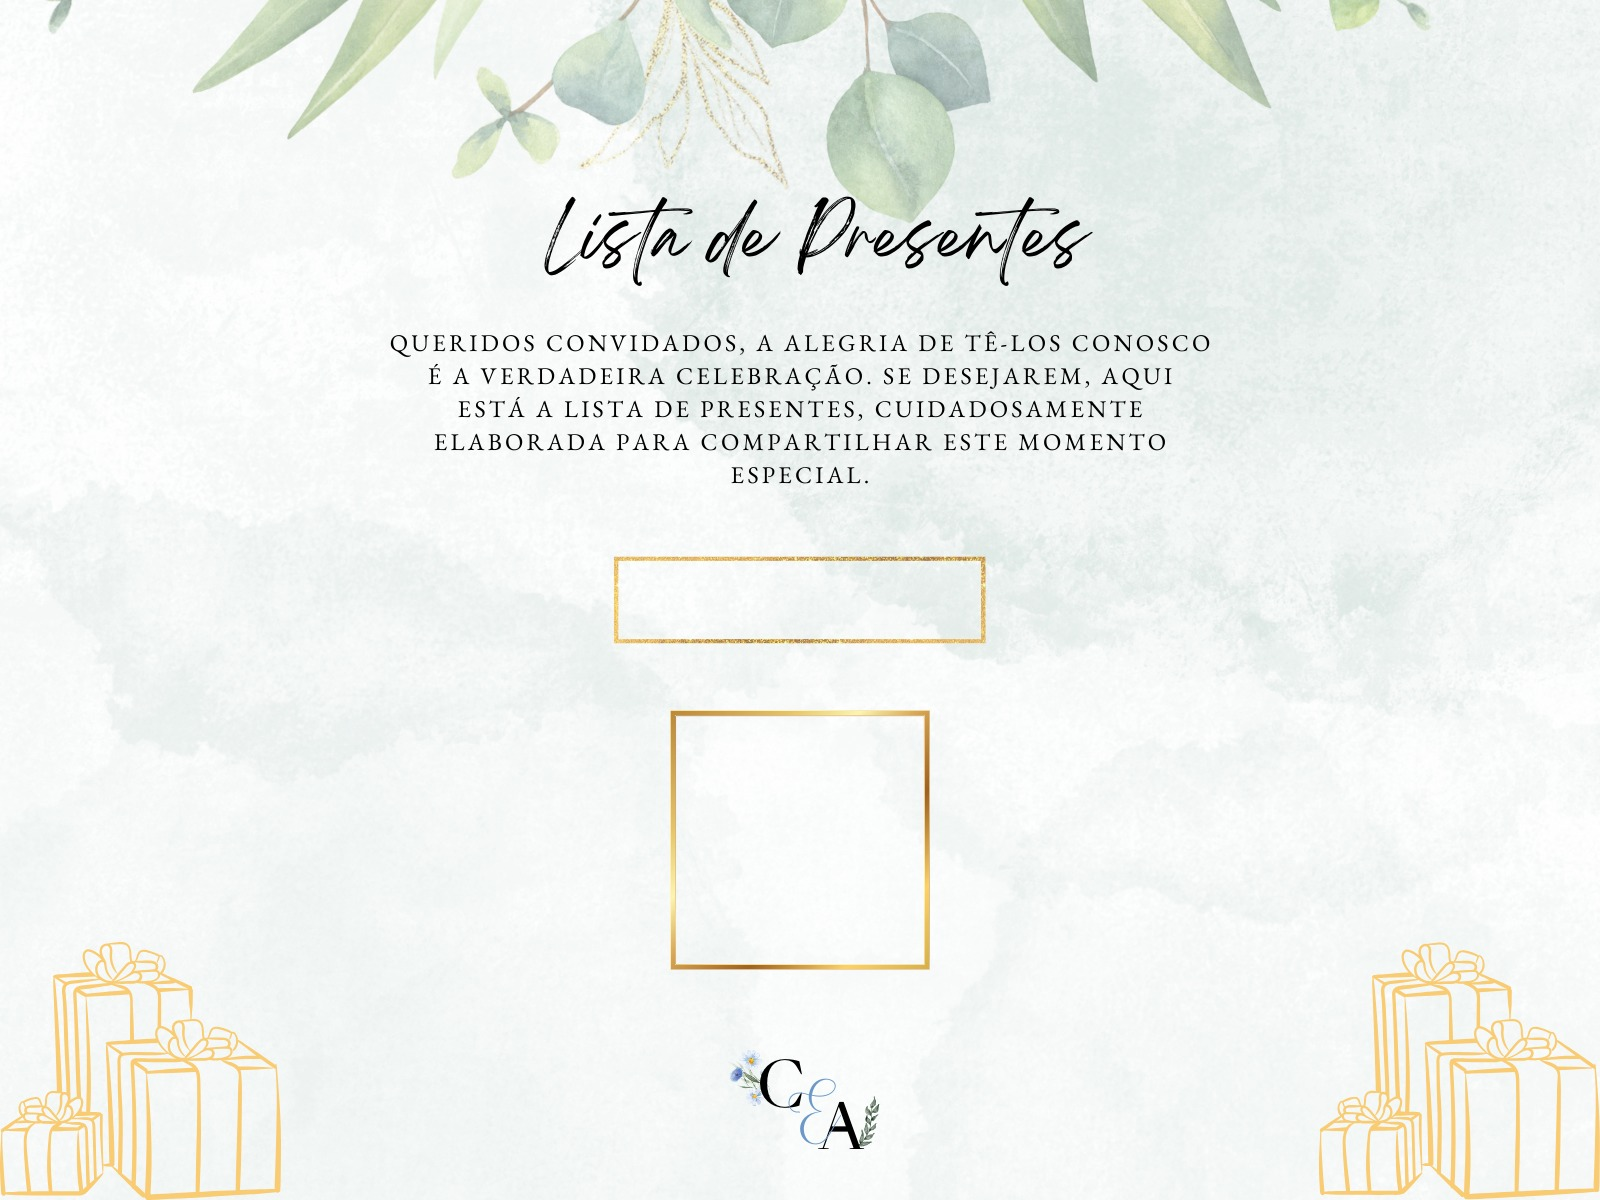
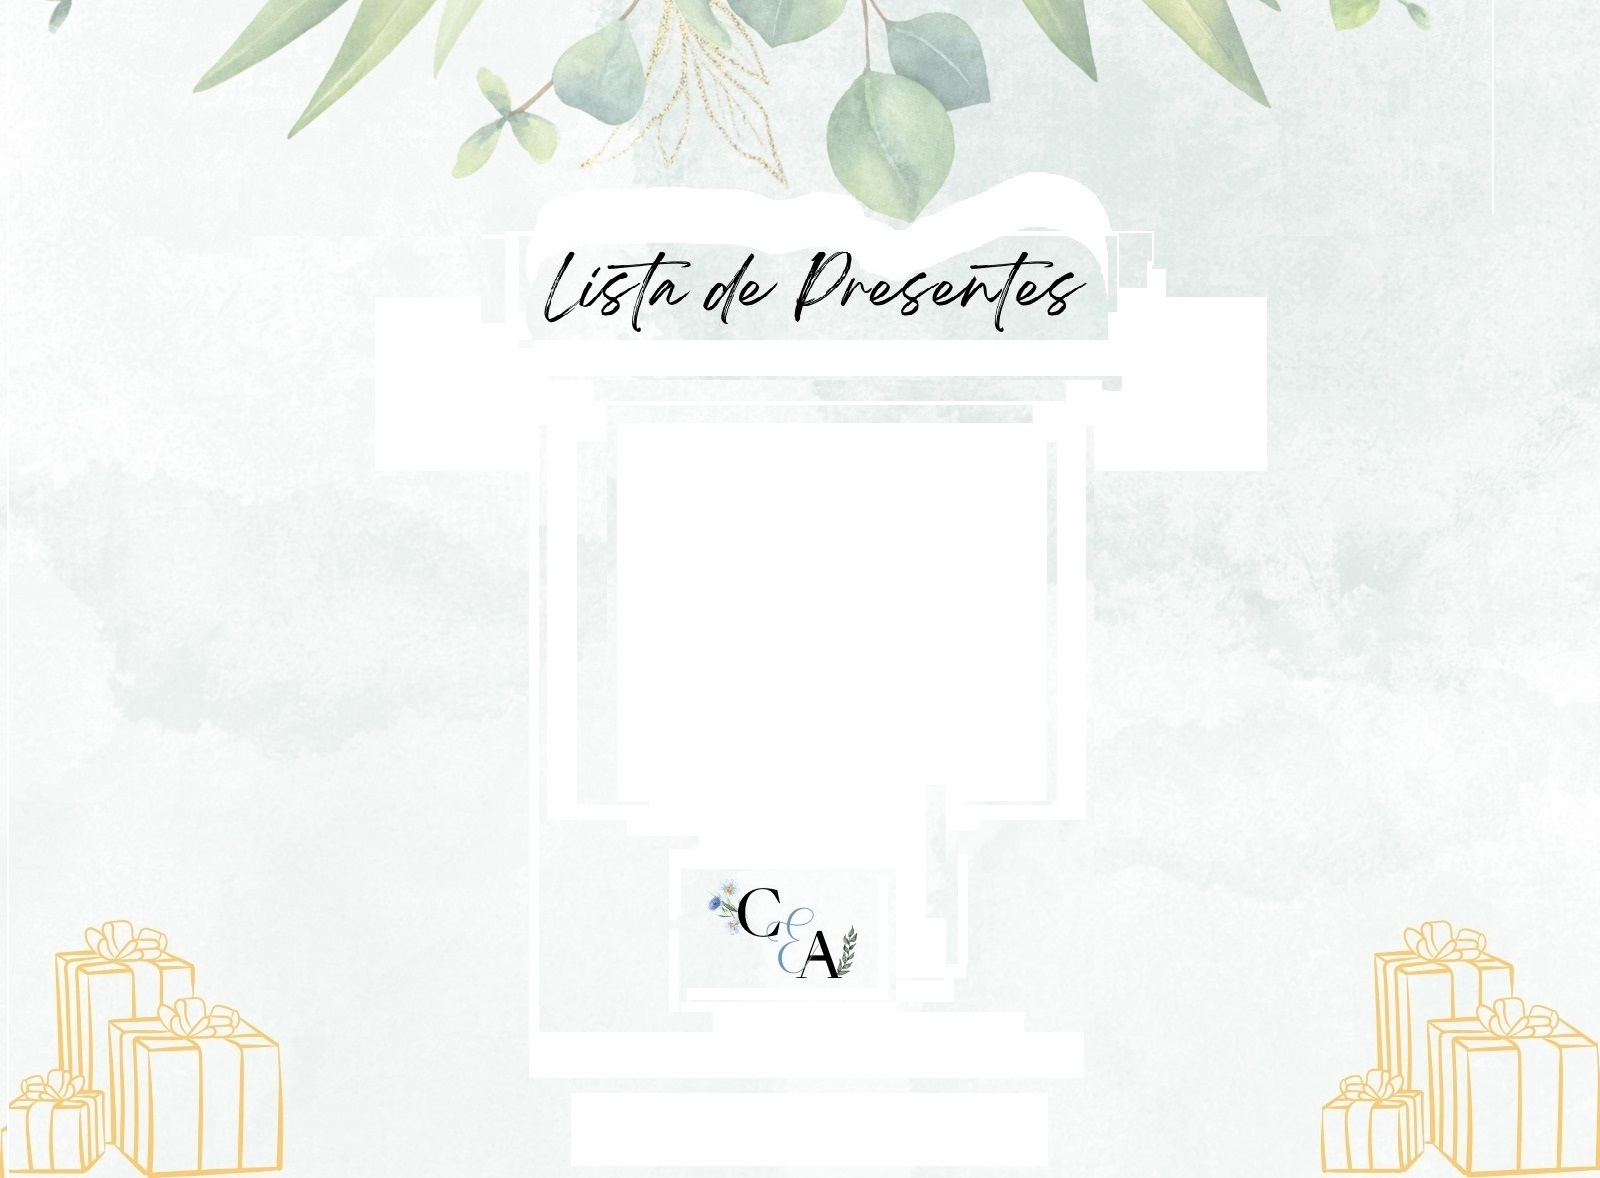
atualizando as páginas de presentes e presença

diff --git a/listaPresentes.html b/listaPresentes.html
@@ -6,39 +6,105 @@
     <title>Lista de Presentes - Camilly & Arthur</title>
     <link rel="icon" href="favicon1.png" type="image/png">
     <style>
+        /* Estilos para a página */
         body {
             font-family: 'Arial', sans-serif;
             background-image: url('ListaPresentes.jpeg'); /* Caminho da imagem de fundo */
-            background-size: contain; /* Faz a imagem cobrir o conteúdo */
+            background-size: cover; /* Faz a imagem cobrir toda a tela */
             background-position: center; /* Centraliza a imagem */
-            background-repeat: no-repeat; /* Evita a repetição da imagem */
-            margin: 0;
-            height: 100vh;
-            position: relative; /* Necessário para usar posicionamento absoluto */
-            overflow: hidden; /* Impede rolagem */
+            background-attachment: fixed;
+            margin: 0; /* Remove margens padrão do body */
+            height: 100vh; /* Garante que o body tenha 100% da altura da viewport */
+            display: flex; /* Usando flexbox para centralizar conteúdo */
+            flex-direction: column; /* Orientação vertical */
+            justify-content: center; /* Centraliza verticalmente */
+            align-items: center; /* Centraliza horizontalmente */
+            overflow: hidden; /* Remove a rolagem */
         }
 
-        /* Estilo do QR Code */
+        /* Overlay com desfoque (imediato) */
+        .overlay {
+            position: fixed;
+            top: 0;
+            left: 0;
+            width: 100%;
+            height: 100%;
+            backdrop-filter: blur(8px); /* Aplica o desfoque no fundo */
+            z-index: 1;
+            animation: none; /* Desativa a animação do overlay */
+        }
+
+        .container {
+            position: relative;
+            z-index: 2;
+            display: flex;
+            flex-direction: column;
+            align-items: center;
+            justify-content: center;
+            height: 100%;
+            width: 100%;
+        }
+
+        .card {
+            background-color: rgba(255, 255, 255, 0.85);
+            border-radius: 12px;
+            padding: 40px;
+            width: 80%;
+            max-width: 600px;
+            box-shadow: 0 8px 20px rgba(0, 0, 0, 0.1);
+            text-align: center;
+            position: relative;
+            animation: fadeIn 1s ease-out; /* Animação de fade-in no card */
+        }
+
+        /* Efeito de escala (zoom) no card */
+        .card:hover {
+            transform: scale(1.05);
+            box-shadow: 0 8px 30px rgba(0, 0, 0, 0.2);
+        }
+
+        /* Estilo do ícone de Voltar */
+        .voltar-icon {
+            position: absolute;
+            top: 20px;
+            left: 20px;
+            font-size: 2rem;
+            color: #6d4c41;
+            cursor: pointer;
+            transition: color 0.3s ease;
+        }
+
+        .voltar-icon:hover {
+            color: #4CAF50;
+        }
+
+        h1 {
+            font-family: 'Brush Script MT', cursive;
+            font-size: 2.5rem;
+            color: #6d4c41;
+            margin-bottom: 20px;
+        }
+
+        p {
+            font-size: 1.2rem;
+            line-height: 1.5;
+            color: #7d5a50;
+            margin-bottom: 30px;
+        }
+
         .qrcode {
-            position: fixed; /* Mantém a posição fixa */
-            top: 75%; /* Ajustado para descer o QR Code */
-            left: 50%;
-            transform: translate(-50%, -50%);
-            width: 170px;
-            height: 170px;
+            width: 200px;
+            height: 200px;
+            margin-bottom: 30px;
         }
 
-        /* Estilo do botão */
         .botao {
-            position: fixed; /* Mantém a posição fixa */
-            top: 50%; /* Centralizado verticalmente */
-            left: 50%; /* Centralizado horizontalmente */
-            transform: translate(-50%, -50%); /* Mantém o botão centralizado */
+            margin-top: 20px;
         }
 
         .botao a {
             display: inline-block;
-            padding: 16px 21px;
+            padding: 12px 24px;
             font-size: 1.2rem;
             color: #fff;
             background-color: #C8A165;
@@ -58,57 +124,63 @@
             transform: translateY(1px);
         }
 
-        /* Ajustes para telas maiores */
-        @media (min-width: 768px) {
-            body {
-                background-size: cover;
-            }
-
-            /* Ajustar o QR Code para telas maiores */
-            .qrcode {
-                top: 70%; /* QR Code um pouco mais para baixo no PC */
-            }
-        }
-
-        @media (min-width: 1200px) {
-            body {
-                background-size: contain;
-            }
-        }
-
-        /* Ajustes para dispositivos móveis */
-        @media (max-width: 767px) {
-            body {
-                background-size: cover; /* Volta para o comportamento anterior no celular */
-            }
-
-            /* Ajustar QR Code e Botão para telas pequenas */
+        /* Responsividade */
+        @media (max-width: 768px) {
             .qrcode {
                 width: 150px;
                 height: 150px;
-                top: 75%; /* Ajustado para descer o QR Code um pouco mais em dispositivos móveis */
-            }
-
-            /* Ajuste específico para o botão no mobile */
-            .botao {
-                top: 54%; /* Botão mais para cima no mobile */
             }
 
             .botao a {
-                font-size: 0.9rem; /* Diminui o tamanho da fonte do botão para telas menores */
-                padding: 10px 18px; /* Menor altura e largura do botão em dispositivos móveis */
+                font-size: 1rem;
+                padding: 10px 18px;
+            }
+
+            .card {
+                padding: 20px;
+            }
+
+            .voltar-icon {
+                font-size: 1.5rem;
+                top: 10px;
+                left: 10px;
+            }
+        }
+
+        /* Animação para o fade-in no card */
+        @keyframes fadeIn {
+            from {
+                opacity: 0;
+            }
+            to {
+                opacity: 1;
             }
         }
     </style>
 </head>
 <body>
 
-    <!-- QR Code centralizado dentro do quadrado -->
-    <img src="qrcode_lista_presente.png" alt="QR Code" class="qrcode">
-    
-    <!-- Botão para acessar a lista de presentes -->
-    <div class="botao">
-        <a href="https://lista.havan.com.br/Convidado/ItensListaPresente/772958" target="_blank">Ir até a Lista de Presentes</a>
+    <!-- Fundo desfocado -->
+    <div class="overlay"></div>
+
+    <!-- Container da página -->
+    <div class="container">
+        <!-- Card com a informação -->
+        <div class="card">
+            <!-- Ícone de Voltar no canto superior esquerdo -->
+            <span onclick="window.history.back()" class="voltar-icon">&#x2190;</span>
+
+            <h1>Lista de Presentes</h1>
+            <p>Nosso maior presente é a sua presença! Caso queira nos presentear, clique abaixo para ver nossa lista.</p>
+            
+            <!-- QR Code -->
+            <img src="qrcode_lista_presente.png" alt="QR Code" class="qrcode">
+
+            <!-- Botão para ver lista de presentes -->
+            <div class="botao">
+                <a href="https://link-da-lista-de-presentes.com" target="_blank">Ver Lista de Presentes</a>
+            </div>
+        </div>
     </div>
 
 </body>

diff --git a/confirmacao.html b/confirmacao.html
@@ -7,28 +7,63 @@
     <link rel="icon" href="favicon2.png" type="image/png">
     <style>
         body {
-            font-family: 'Arial', sans-serif;
+            font-family: 'Georgia', serif;
             background-image: url('Presenca.jpeg');
-            background-size: cover; /* Mantém o comportamento correto no PC */
+            background-size: cover;
             background-position: center;
             background-repeat: no-repeat;
             margin: 0;
+            display: flex;
+            justify-content: center;
+            align-items: center;
             height: 100vh;
-            position: relative;
+            color: #555;
+            text-align: center;
             overflow: hidden;
         }
 
-        /* Botão fixo */
-        .botao {
+        .overlay {
             position: fixed;
-            left: 50%;
-            transform: translate(-50%, 0);
-            bottom: 20%; /* Ajuste correto para PC */
+            top: 0;
+            left: 0;
+            width: 100%;
+            height: 100%;
+            backdrop-filter: blur(10px);
+            z-index: 1;
+        }
+
+        .container {
+            position: relative;
+            background-color: rgba(255, 255, 255, 0.8);
+            border-radius: 12px;
+            box-shadow: 0 8px 20px rgba(0, 0, 0, 0.1);
+            padding: 40px;
+            max-width: 600px;
+            width: 90%;
+            border: 1px solid #e2dcd5;
+            z-index: 2;
+        }
+
+        h1 {
+            font-family: 'Brush Script MT', cursive;
+            font-size: 2.5rem;
+            color: #6d4c41;
+            margin-bottom: 20px;
+        }
+
+        p {
+            font-size: 1.2rem;
+            line-height: 1.5;
+            color: #7d5a50;
+        }
+
+        .botao {
+            margin-top: 30px;
         }
 
         .botao a {
             display: inline-block;
-            padding: 10px 60px;
+            padding: 12px 30px;
             font-size: 1rem;
             color: #fff;
             background-color: #C8A165;
@@ -48,31 +83,34 @@
             transform: translateY(1px);
         }
 
-        /* Ajustes apenas para dispositivos móveis */
-        @media (max-width: 767px) {
-            body {
-                background-size: contain; /* Exibe a imagem inteira no mobile */
-                background-position: center center; /* Centraliza a imagem no mobile */
-                background-color: rgba(200, 200, 200, 0.6); /* Cor de fundo semitransparente */
-            }
+        /* Estilo do botão de voltar */
+        .back-button {
+            position: absolute;
+            top: 10px;
+            left: 10px;
+            background: none;
+            border: none;
+            font-size: 1.5rem;
+            color: #6d4c41;
+            cursor: pointer;
+            z-index: 3;
+            transition: color 0.3s;
+        }
 
-            .botao {
-                bottom: 38%; /* Move o botão ainda mais para cima no mobile */
-            }
-
-            .botao a {
-                font-size: 0.50rem; /* Ajusta ainda mais o tamanho da fonte no mobile */
-                padding: 3px 3px; /* Diminuindo ainda mais o tamanho do botão no mobile */
-            }
+        .back-button:hover {
+            color: #b38d4c;
         }
     </style>
 </head>
 <body>
-
-    <!-- Botão para confirmar presença -->
-    <div class="botao">
-        <a href="https://wa.me/5512992264185?text=Olá%2C%20tudo%20bem%3F%20Sou%20convidado%20da%20celebração%20entre%20o%20casamento%20de%20Camilly%20%26%20Arthur%2C%20estou%20confirmando%20minha%20presença%20por%20aqui%2C%20obrigado!" target="_blank">Confirmar Presença</a>
+    <div class="overlay"></div>
+    <div class="container">
+        <button class="back-button" onclick="window.location.href='index.html';">←</button>
+        <h1>Confirmação de Presença</h1>
+        <p>"Sua presença é o melhor presente que poderíamos receber. Vamos celebrar juntos este momento inesquecível!"</p>
+        <div class="botao">
+            <a href="https://wa.me/5512992264185?text=Olá%2C%20tudo%20bem%3F%20Sou%20convidado%20da%20celebração%20entre%20o%20casamento%20de%20Camilly%20%26%20Arthur%2C%20estou%20confirmando%20minha%20presença%20por%20aqui%2C%20obrigado!" target="_blank">Confirmar Presença</a>
+        </div>
     </div>
-
 </body>
 </html>
